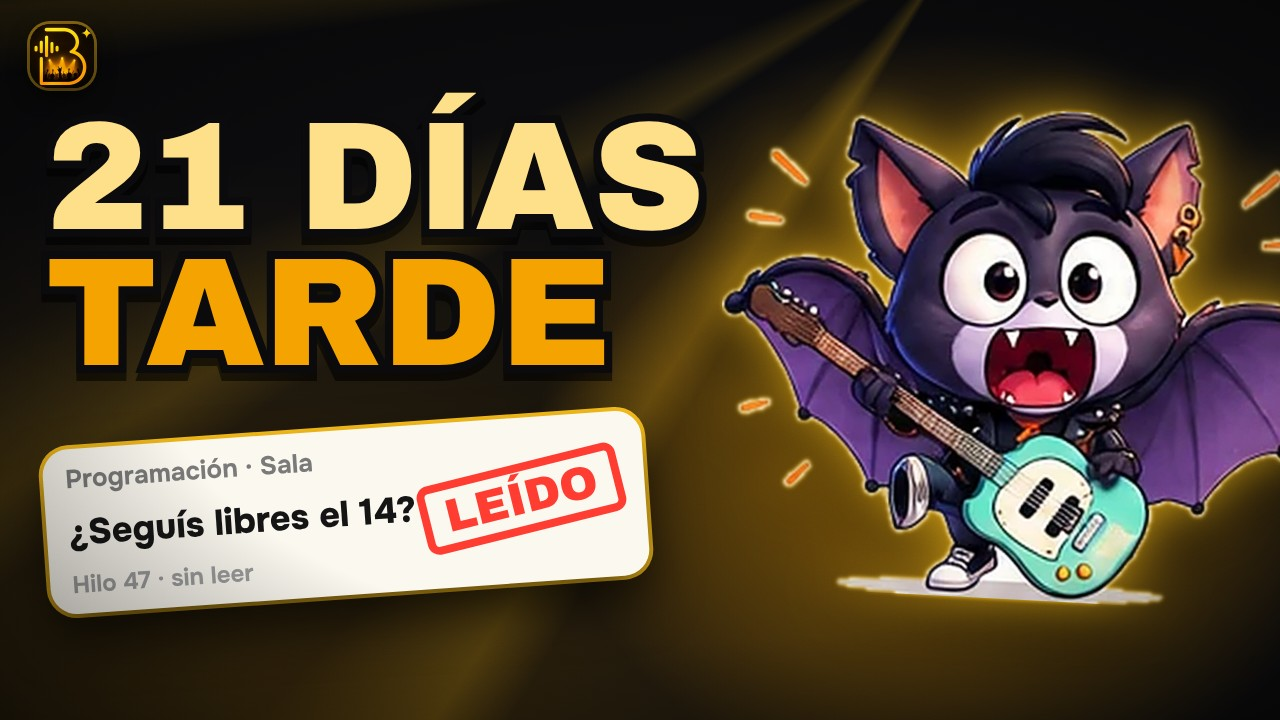
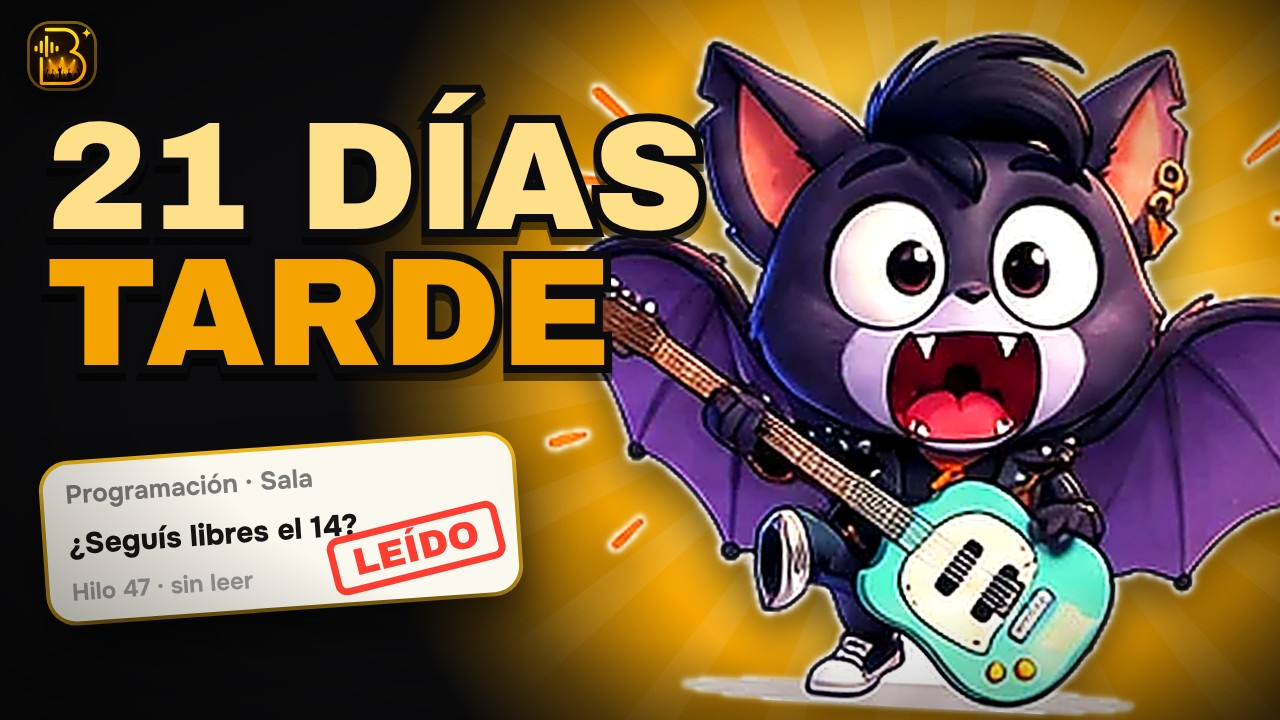
feat(ejercicios): miniaturas de YouTube v3, con Eco enorme sobre ráfaga ámbar (#467)
* feat(public): página estática del ejercicio de YouTube «CRM para bandas»

Canal simulado con los 8 vídeos, miniaturas y Eco animado, en tokens Espectro
(claro, oscuro y clásico). Solo archivos estáticos en public/; sin cambios en la app.

Claude-Session: https://claude.ai/code/session_01HGdnqfpZSJyV4PTxDEDChf

* feat(public): Eco en TikTok con tres guiones de ejemplo en la página del ejercicio

Claude-Session: https://claude.ai/code/session_01HGdnqfpZSJyV4PTxDEDChf

* feat(public): logo animado de BandManager en la página del ejercicio

Claude-Session: https://claude.ai/code/session_01HGdnqfpZSJyV4PTxDEDChf

* fix(public): servir el ejercicio como ejercicio_youtube_crm.html

express.static se monta con index:false, así que public/ejercicio_youtube_crm/ no
servía su index.html y la ruta caía en la SPA. Se mueve a un .html suelto, como privacidad.html.

Claude-Session: https://claude.ai/code/session_01HGdnqfpZSJyV4PTxDEDChf

* feat(server): servir /ejercicio_youtube_crm sin extensión

Claude-Session: https://claude.ai/code/session_01HGdnqfpZSJyV4PTxDEDChf

* feat(server): ruta /ejercicio_youtube_crm en su propio módulo y enlace a la película

server.ts no puede crecer (tope congelado): la ruta nace en server/routes/ejercicioYoutube.ts
y se monta junto a los atajos de la película del TFM. Se regenera docs/api.

Claude-Session: https://claude.ai/code/session_01HGdnqfpZSJyV4PTxDEDChf

* feat(ejercicios): servicio estático aparte para los ejercicios del máster
[…]

diff --git a/docs/MARCA_ECO.md b/docs/MARCA_ECO.md
@@ -47,4 +47,4 @@ Las páginas de los ejercicios (`public/ejercicio_youtube_crm*` y `ejercicios/`)
 | `--acc` / `--acc-ink` | `#F5A300` (ámbar) / `#FFC21A` (dorado) |
 | `--on-acc` | `#140d00` |
 
-Lema: «Tu manager de bolsillo.». Las miniaturas de YouTube usan la misma paleta: fondo negro con foco ámbar, texto crema con contorno negro y una palabra en ámbar, Eco grande a la derecha y un único objeto de la app a la izquierda.
+Lema: «Tu manager de bolsillo.». Las miniaturas de YouTube usan la misma paleta y una receta fija: la mitad izquierda en negro con 2 a 3 palabras en crema (una en ámbar) y contorno negro; la derecha, una ráfaga de luz ámbar con rayos y la cara de Eco enorme, a sangre, con la emoción del vídeo (su silueta oscura destaca sobre el fondo claro); abajo a la izquierda, un único objeto de la app que prueba la promesa. Se comprueban a 360 px de ancho antes de subirlas.
